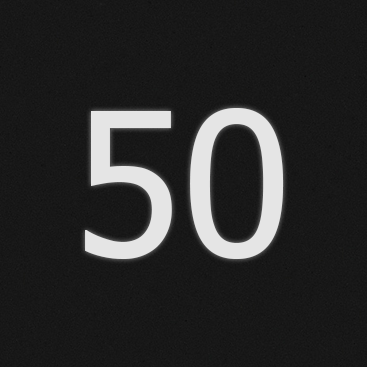
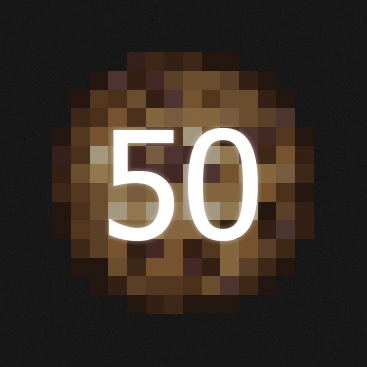
Add enableRefresh, beautifyChips; update chipsPerSec (formatting)

diff --git a/chipsPerSec/main.js b/chipsPerSec/main.js
@@ -2,7 +2,7 @@ Game.registerMod("chipsPerSec", {
 	init: () => {
 		// A function to calculate the chips per second
 		let chipsPerSec = () => Math.floor(Game.HowMuchPrestige(Game.cookiesReset + Game.cookiesEarned + (Game.cookiesPs * (1 - Game.cpsSucked))) - Game.HowMuchPrestige(Game.cookiesReset + Game.cookiesEarned));
-		let chipsPerSecStr = () => SimpleBeautify(chipsPerSec()) + '/sec';
+		let chipsPerSecStr = () => (Beautify(chipsPerSec(), 1) + '/sec').replace(' ', '&nbsp;');
 
 		// Create the new HTML element and give it the same attributes as the current ascend chip number
 		let el = document.createElement('div');

diff --git a/enableRefresh/main.js b/enableRefresh/main.js
@@ -1,0 +1,13 @@
+Game.registerMod("enableRefresh", {
+	init: () => {
+        AddEvent(window, 'keydown', (e) => {
+            Game.Notify(e.key,'',[16,5]);
+            if (e.key == '5') {
+                App.reload();
+                window.location.reload();
+                // e.preventDefault();
+            }
+        });
+        Game.Notify(`Enable Refresh loaded!`,'',[16,5]);
+    }
+});

diff --git a/beautifyChips/main.js b/beautifyChips/main.js
@@ -1,0 +1,14 @@
+Game.registerMod("beautifyChips", {
+	init: () => {
+		let logic = () => {
+			let chips = Number.parseInt(Game.ascendNumber.textContent.replaceAll(/[\+\,]/g, ''));
+			Game.ascendNumber.innerHTML = '+' + Beautify(chips, 1).replace(' ', '&nbsp;');
+		};
+
+		Game.registerHook('logic', () => {
+			if (Game.T % 15 == 0) logic();
+		});
+
+		logic();
+	}
+});
